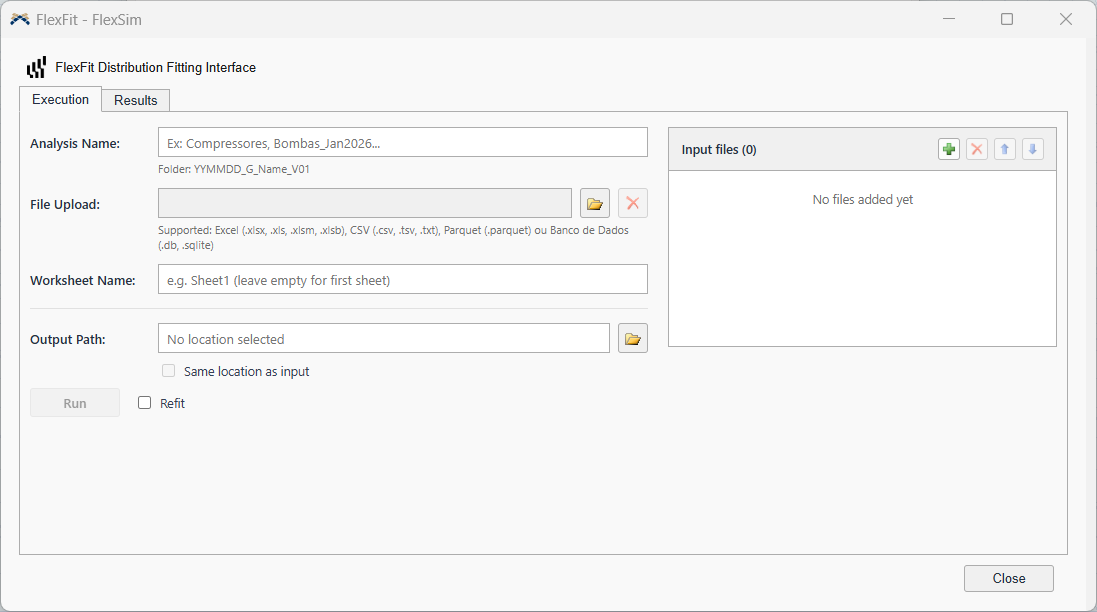
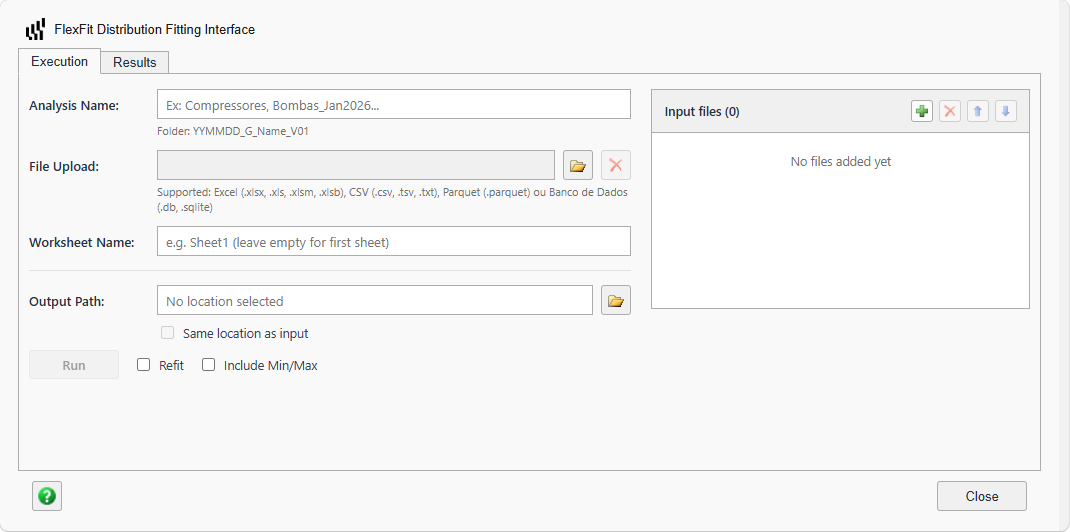
docs(flexfit): atualiza screenshots e adiciona tabela Score x Erro
- Atualiza ExecutionTab.png, FitPanel.png, ResultsTab.png e SummaryPanel.png
- Troca exemplo de distribuicao no Fit panel (beta -> gamma, batendo com o novo print)
- Adiciona tabela comparando combinacoes de Score e Erro (bom/ruim) na secao
  "Erro", explicando na pratica quando os dois sinais concordam ou discordam

diff --git a/modules/FlexFit/manual/WelcomeToFlexFit.html b/modules/FlexFit/manual/WelcomeToFlexFit.html
@@ -65,8 +65,8 @@
         
         <h3 id="f-analysis-name" style="font-size:15px;margin:22px 0 6px;scroll-margin-top:16px;">1. Analysis Name</h3>
         <p style="font-size:14px;line-height:1.65;color:#333;margin:0 0 10px;max-width:76ch;text-align:justify;">A free-form name for the analysis (e.g. <em>Compressors</em>, <em>Pumps_Jan2026</em>). It defines the name of the results folder, always in the format:</p>
-        <div style="font-family:Consolas,'Courier New',monospace;font-size:13px;background:#f4f4f4;border:1px solid #ddd;padding:8px 11px;margin:0 0 8px;color:#1a1a1a;">YYMMDD_G_{Name}_V01</div>
-        <p style="font-size:13px;line-height:1.6;color:#666;margin:0 0 10px;max-width:76ch;">YYMMDD = today's date · G = general curves · V01 = first version of this analysis.</p>
+        <div style="font-family:Consolas,'Courier New',monospace;font-size:13px;background:#f4f4f4;border:1px solid #ddd;padding:8px 11px;margin:0 0 8px;color:#1a1a1a;">YYMMDD_{Name}_V01</div>
+        <p style="font-size:13px;line-height:1.6;color:#666;margin:0 0 10px;max-width:76ch;">YYMMDD = today's date · V01 = first version of this analysis.</p>
 
         <h3 id="f-file-upload" style="font-size:15px;margin:22px 0 6px;scroll-margin-top:16px;">2. File Upload / "Input files" list</h3>
         <p style="font-size:14px;line-height:1.65;color:#333;margin:0 0 10px;max-width:76ch;text-align:justify;">Add one or more files (folder button or drag and drop). Accepted formats: Excel (.xlsx, .xls, .xlsm, .xlsb), CSV (.csv, .tsv, .txt), Parquet and databases (.db, .sqlite). Every numeric column of every file becomes an independent dataset in the final ranking.</p>
@@ -85,7 +85,10 @@
         <h3 id="f-refit" style="font-size:15px;margin:22px 0 6px;scroll-margin-top:16px;">5. Refit</h3>
         <p style="font-size:14px;line-height:1.65;color:#333;margin:0 0 10px;max-width:76ch;text-align:justify;">Optional checkbox next to the Run button. See <a href="#refit">How Refit works</a> — worth understanding before deciding whether to turn it on.</p>
 
-        <h3 id="f-run" style="font-size:15px;margin:22px 0 6px;scroll-margin-top:16px;">6. Run</h3>
+        <h3 id="f-minmax" style="font-size:15px;margin:22px 0 6px;scroll-margin-top:16px;">6. Include Min/Max</h3>
+        <p style="font-size:14px;line-height:1.65;color:#333;margin:0 0 10px;max-width:76ch;text-align:justify;">Optional checkbox next to Refit. When on, the exported Excel workbook gets two extra columns in the <strong>Results</strong> sheet — Min and Max, taken from the raw data of each dataset — ready to paste into FlexSim's distribution table as cutoff parameters. See <a href="#results-excel">The exported Excel workbook</a>.</p>
+
+        <h3 id="f-run" style="font-size:15px;margin:22px 0 6px;scroll-margin-top:16px;">7. Run</h3>
         <p style="font-size:14px;line-height:1.65;color:#333;margin:0 0 10px;max-width:76ch;text-align:justify;">Starts the data cleaning and the distribution fitting. A progress bar follows the steps; when it finishes, the app switches on its own to the <em>Results</em> tab with a summary of the files and datasets processed.</p>
       </section>
 
@@ -177,7 +180,7 @@
         </figure>
         
         <p style="font-size:14px;line-height:1.65;color:#333;margin:0 0 8px;max-width:76ch;text-align:justify;">The focused distribution appears in a format ready to use in FlexSim, and the icon beside it copies the whole string (name + parameters):</p>
-        <div style="font-family:Consolas,'Courier New',monospace;font-size:13px;background:#f4f4f4;border:1px solid #ddd;padding:8px 11px;margin:0 0 18px;color:#1a1a1a;">beta(1.26667, 9095.97, 0.443915, 2.58057)</div>
+        <div style="font-family:Consolas,'Courier New',monospace;font-size:13px;background:#f4f4f4;border:1px solid #ddd;padding:8px 11px;margin:0 0 18px;color:#1a1a1a;">gamma(0.991412, 21.366221, 1.353314)</div>
 
         <p style="font-size:14px;line-height:1.65;color:#333;margin:0 0 10px;max-width:76ch;text-align:justify;">The badge next to the Score summarises the quality of the fit:</p>
         <table style="width:100%;max-width:640px;font-size:13px;margin:0 0 8px;">
@@ -189,19 +192,68 @@
           </thead>
           <tbody>
             <tr>
-              <td style="border:1px solid #ccc;padding:7px 9px;vertical-align:top;"><span style="display:inline-block;padding:1px 8px;font-size:12px;background:#e6f4ea;border:1px solid #b7dcc3;color:#1a6b3a;">Good</span></td>
-              <td style="border:1px solid #ccc;padding:7px 9px;color:#333;vertical-align:top;">Good fit — you can use it with confidence.</td>
+              <td style="border:1px solid #ccc;padding:7px 9px;vertical-align:top;"><span style="display:inline-block;padding:1px 8px;font-size:12px;background:#e6f4ea;border:1px solid #b7dcc3;color:#1a6b3a;">⭐ Excellent</span></td>
+              <td style="border:1px solid #ccc;padding:7px 9px;color:#333;vertical-align:top;">Score ≥ 90 — excellent fit.</td>
             </tr>
             <tr>
-              <td style="border:1px solid #ccc;padding:7px 9px;vertical-align:top;"><span style="display:inline-block;padding:1px 8px;font-size:12px;background:#faf1de;border:1px solid #e7cf9e;color:#8a5a11;">Acceptable</span></td>
-              <td style="border:1px solid #ccc;padding:7px 9px;color:#333;vertical-align:top;">Acceptable, but worth checking the diagnostic charts before deciding.</td>
+              <td style="border:1px solid #ccc;padding:7px 9px;vertical-align:top;"><span style="display:inline-block;padding:1px 8px;font-size:12px;background:#e6f4ea;border:1px solid #b7dcc3;color:#1a6b3a;">🟢 Good</span></td>
+              <td style="border:1px solid #ccc;padding:7px 9px;color:#333;vertical-align:top;">Score 70-89 — good fit, you can use it with confidence.</td>
             </tr>
             <tr>
-              <td style="border:1px solid #ccc;padding:7px 9px;vertical-align:top;"><span style="display:inline-block;padding:1px 8px;font-size:12px;background:#fbe9e9;border:1px solid #eec4c4;color:#a4292f;">Poor</span></td>
-              <td style="border:1px solid #ccc;padding:7px 9px;color:#333;vertical-align:top;">Low score — the distribution did not fit the data well.</td>
+              <td style="border:1px solid #ccc;padding:7px 9px;vertical-align:top;"><span style="display:inline-block;padding:1px 8px;font-size:12px;background:#faf1de;border:1px solid #e7cf9e;color:#8a5a11;">🟡 Acceptable</span></td>
+              <td style="border:1px solid #ccc;padding:7px 9px;color:#333;vertical-align:top;">Score 50-69 — acceptable, but worth checking the diagnostic charts before deciding.</td>
+            </tr>
+            <tr>
+              <td style="border:1px solid #ccc;padding:7px 9px;vertical-align:top;"><span style="display:inline-block;padding:1px 8px;font-size:12px;background:#fbe9e9;border:1px solid #eec4c4;color:#a4292f;">🟠 Poor</span></td>
+              <td style="border:1px solid #ccc;padding:7px 9px;color:#333;vertical-align:top;">Score 30-49 — low score, the distribution did not fit the data well.</td>
+            </tr>
+            <tr>
+              <td style="border:1px solid #ccc;padding:7px 9px;vertical-align:top;"><span style="display:inline-block;padding:1px 8px;font-size:12px;background:#fbe9e9;border:1px solid #eec4c4;color:#a4292f;">🔴 Very Poor</span></td>
+              <td style="border:1px solid #ccc;padding:7px 9px;color:#333;vertical-align:top;">Score below 30 — the distribution is not a viable option for this dataset.</td>
             </tr>
           </tbody>
         </table>
+
+        <h3 id="f-erro" style="font-size:15px;margin:22px 0 6px;scroll-margin-top:16px;">Erro</h3>
+        <p style="font-size:14px;line-height:1.65;color:#333;margin:0 0 10px;max-width:76ch;text-align:justify;">Next to the Score, <strong>Erro</strong> shows the Kolmogorov-Smirnov statistic as a percentage — the largest gap between the real data's cumulative curve and the fitted curve's, at its single worst point. While the Score ranks this distribution against the others tested, Erro answers a different question: how far off is this specific curve from the data, on its own.</p>
+
+        <p style="font-size:14px;line-height:1.65;color:#333;margin:0 0 10px;max-width:76ch;text-align:justify;">Because they answer different questions, Score and Erro do not always move together. Here is what each combination means in practice:</p>
+        <table style="width:100%;max-width:760px;font-size:13px;margin:0 0 18px;">
+          <thead>
+            <tr>
+              <th style="text-align:left;background:#f0f0f0;border:1px solid #ccc;padding:7px 9px;font-weight:700;color:#1a1a1a;width:110px;">Score</th>
+              <th style="text-align:left;background:#f0f0f0;border:1px solid #ccc;padding:7px 9px;font-weight:700;color:#1a1a1a;width:110px;">Erro</th>
+              <th style="text-align:left;background:#f0f0f0;border:1px solid #ccc;padding:7px 9px;font-weight:700;color:#1a1a1a;">What it means</th>
+            </tr>
+          </thead>
+          <tbody>
+            <tr>
+              <td style="border:1px solid #ccc;padding:7px 9px;color:#333;vertical-align:top;">Good (≥70)</td>
+              <td style="border:1px solid #ccc;padding:7px 9px;color:#333;vertical-align:top;">Good (low)</td>
+              <td style="border:1px solid #ccc;padding:7px 9px;color:#333;vertical-align:top;">Strong signal — the curve fits well both overall and at its worst point. The ideal case; use it with confidence.</td>
+            </tr>
+            <tr>
+              <td style="border:1px solid #ccc;padding:7px 9px;color:#333;vertical-align:top;">Good (≥70)</td>
+              <td style="border:1px solid #ccc;padding:7px 9px;color:#333;vertical-align:top;">Poor (high)</td>
+              <td style="border:1px solid #ccc;padding:7px 9px;color:#333;vertical-align:top;">The fit is good "overall" (the other tests compensate), but there is one specific point — usually in the tail — where the curve drifts noticeably from the real data. Worth checking the diagnostic charts before deciding.</td>
+            </tr>
+            <tr>
+              <td style="border:1px solid #ccc;padding:7px 9px;color:#333;vertical-align:top;">Poor (&lt;50)</td>
+              <td style="border:1px solid #ccc;padding:7px 9px;color:#333;vertical-align:top;">Good (low)</td>
+              <td style="border:1px solid #ccc;padding:7px 9px;color:#333;vertical-align:top;">More common on very large samples (VERY_LARGE), where Score leans on AIC/BIC rather than the statistical tests — the distribution can have a small worst-point error yet still lose the overall comparison against the other candidates.</td>
+            </tr>
+            <tr>
+              <td style="border:1px solid #ccc;padding:7px 9px;color:#333;vertical-align:top;">Poor (&lt;50)</td>
+              <td style="border:1px solid #ccc;padding:7px 9px;color:#333;vertical-align:top;">Poor (high)</td>
+              <td style="border:1px solid #ccc;padding:7px 9px;color:#333;vertical-align:top;">Both signals agree: not a good distribution for this dataset.</td>
+            </tr>
+          </tbody>
+        </table>
+
+        <div style="border:1px solid #ccc;background:#fafafa;padding:10px 12px;margin:0 0 10px;max-width:76ch;">
+          <strong style="display:block;font-size:13.5px;color:#1a1a1a;margin-bottom:4px;">When Erro shows "N/A"</strong>
+          <span style="font-size:13.5px;line-height:1.6;color:#333;">This is not a bug. It happens when the dataset has fewer data points than the distribution has parameters (e.g. a 4-parameter distribution fitted to only 3 samples) — there isn't enough data left to run the underlying statistical test. It is a sign the dataset is too small for that particular distribution, not a system error.</span>
+        </div>
       </section>
 
       <!-- Results : Charts -->
@@ -251,6 +303,62 @@
               <td style="border:1px solid #ccc;padding:7px 9px;color:#1a1a1a;vertical-align:top;font-weight:700;">P-P Plot</td>
               <td style="border:1px solid #ccc;padding:7px 9px;color:#333;vertical-align:top;">Theoretical probability (x axis) vs. empirical probability (y axis), on the [0,1]×[0,1] square.</td>
               <td style="border:1px solid #ccc;padding:7px 9px;color:#333;vertical-align:top;">Points sit on the diagonal across the whole probability range.</td>
+            </tr>
+          </tbody>
+        </table>
+      </section>
+
+      <!-- Results : Excel workbook -->
+      <section id="results-excel" style="scroll-margin-top:16px;">
+        <h2 style="font-size:22px;margin:34px 0 12px;padding-bottom:6px;border-bottom:1px solid #e0e0e0;">The exported Excel workbook</h2>
+        <p style="font-size:14px;line-height:1.65;color:#333;margin:0 0 12px;max-width:76ch;text-align:justify;">Every processed file gets an Excel workbook saved in the analysis folder, with a <strong>Results</strong> sheet — a single table stacking every dataset and every ranked distribution, ready to paste into FlexSim's own distribution table. This is the main deliverable of the analysis; the Fit panel on screen and the exported dashboard PNG both show the same data this sheet holds.</p>
+        <table style="width:100%;font-size:13px;margin:0 0 8px;">
+          <thead>
+            <tr>
+              <th style="text-align:left;background:#f0f0f0;border:1px solid #ccc;padding:7px 9px;font-weight:700;color:#1a1a1a;width:160px;">Column</th>
+              <th style="text-align:left;background:#f0f0f0;border:1px solid #ccc;padding:7px 9px;font-weight:700;color:#1a1a1a;">What it shows</th>
+            </tr>
+          </thead>
+          <tbody>
+            <tr>
+              <td style="border:1px solid #ccc;padding:7px 9px;color:#1a1a1a;vertical-align:top;">Dataset</td>
+              <td style="border:1px solid #ccc;padding:7px 9px;color:#333;vertical-align:top;">Name of the dataset (file + column).</td>
+            </tr>
+            <tr>
+              <td style="border:1px solid #ccc;padding:7px 9px;color:#1a1a1a;vertical-align:top;">Rank</td>
+              <td style="border:1px solid #ccc;padding:7px 9px;color:#333;vertical-align:top;">Position of this distribution in the dataset's ranking — 1 is the best Score.</td>
+            </tr>
+            <tr>
+              <td style="border:1px solid #ccc;padding:7px 9px;color:#1a1a1a;vertical-align:top;">Regime</td>
+              <td style="border:1px solid #ccc;padding:7px 9px;color:#333;vertical-align:top;">Sample-size bracket used to weight the Score (SMALL, MEDIUM, LARGE, VERY_LARGE).</td>
+            </tr>
+            <tr>
+              <td style="border:1px solid #ccc;padding:7px 9px;color:#1a1a1a;vertical-align:top;">N_Samples</td>
+              <td style="border:1px solid #ccc;padding:7px 9px;color:#333;vertical-align:top;">Number of cleaned data points used for this dataset.</td>
+            </tr>
+            <tr>
+              <td style="border:1px solid #ccc;padding:7px 9px;color:#1a1a1a;vertical-align:top;">FlexScript Distribution</td>
+              <td style="border:1px solid #ccc;padding:7px 9px;color:#333;vertical-align:top;">The formula ready to paste into FlexSim — same string the copy icon in the Fit panel copies.</td>
+            </tr>
+            <tr>
+              <td style="border:1px solid #ccc;padding:7px 9px;color:#1a1a1a;vertical-align:top;">Python Distribution</td>
+              <td style="border:1px solid #ccc;padding:7px 9px;color:#333;vertical-align:top;">The same distribution, written in scipy/Python parameter order.</td>
+            </tr>
+            <tr>
+              <td style="border:1px solid #ccc;padding:7px 9px;color:#1a1a1a;vertical-align:top;">Min / Max <em>(optional)</em></td>
+              <td style="border:1px solid #ccc;padding:7px 9px;color:#333;vertical-align:top;">Only present when <a href="#f-minmax">Include Min/Max</a> is checked. Minimum and maximum of the <strong>raw data</strong> for this dataset — not the fitted distribution's own cutoff parameters.</td>
+            </tr>
+            <tr>
+              <td style="border:1px solid #ccc;padding:7px 9px;color:#1a1a1a;vertical-align:top;">Erro</td>
+              <td style="border:1px solid #ccc;padding:7px 9px;color:#333;vertical-align:top;">Same value shown in the <a href="#f-erro">Fit panel</a> — can read "N/A" (not a bug, see above).</td>
+            </tr>
+            <tr>
+              <td style="border:1px solid #ccc;padding:7px 9px;color:#1a1a1a;vertical-align:top;">Score</td>
+              <td style="border:1px solid #ccc;padding:7px 9px;color:#333;vertical-align:top;">Same 0-100 ranking value shown in the Fit panel.</td>
+            </tr>
+            <tr>
+              <td style="border:1px solid #ccc;padding:7px 9px;color:#1a1a1a;vertical-align:top;">Classification</td>
+              <td style="border:1px solid #ccc;padding:7px 9px;color:#333;vertical-align:top;">Same quality badge shown in the Fit panel (Excellent/Good/Acceptable/Poor/Very Poor).</td>
             </tr>
           </tbody>
         </table>
